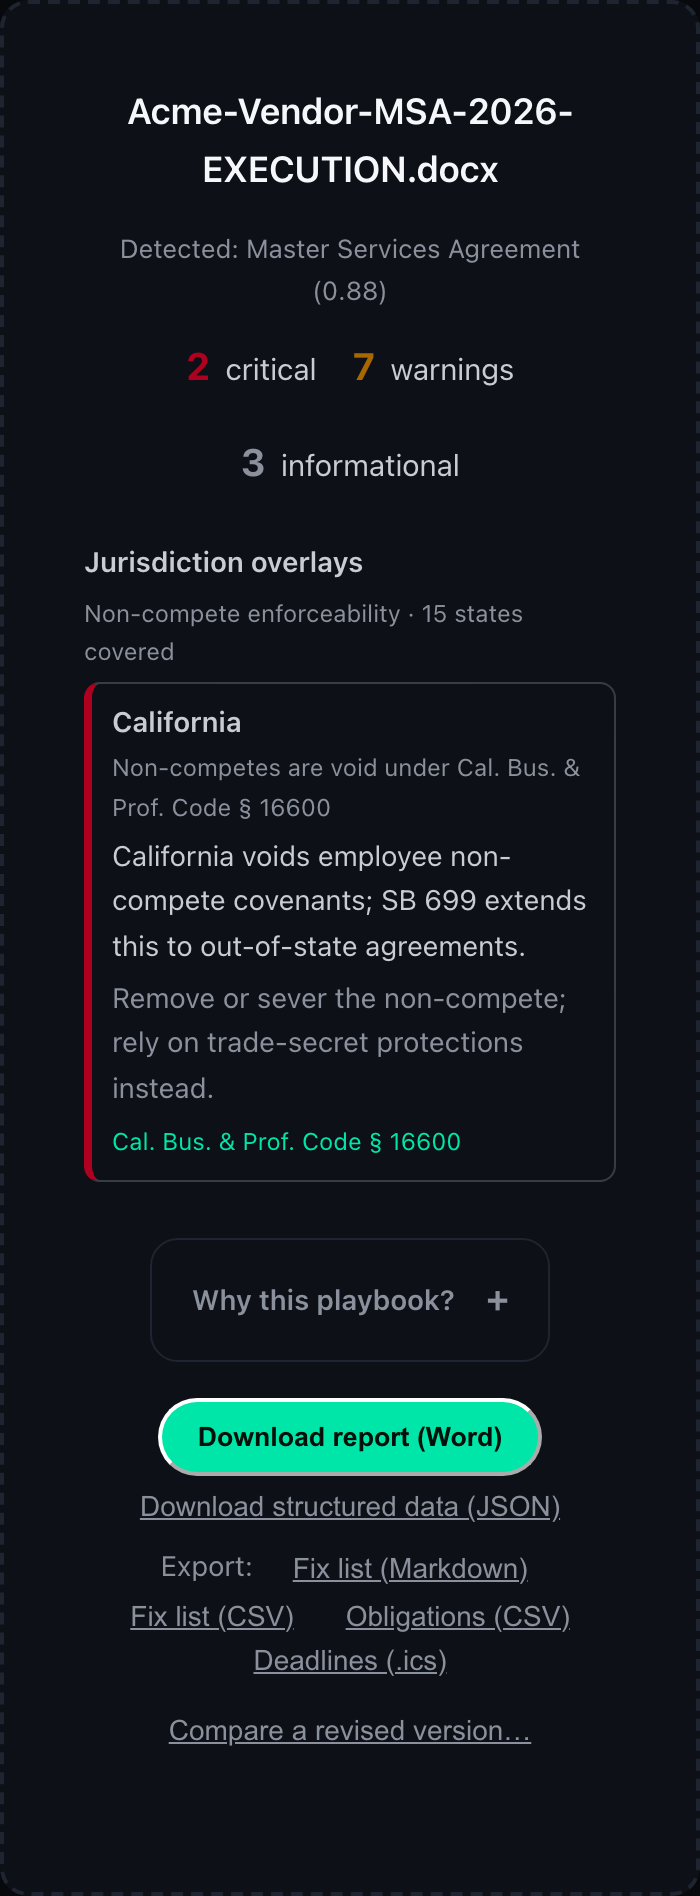
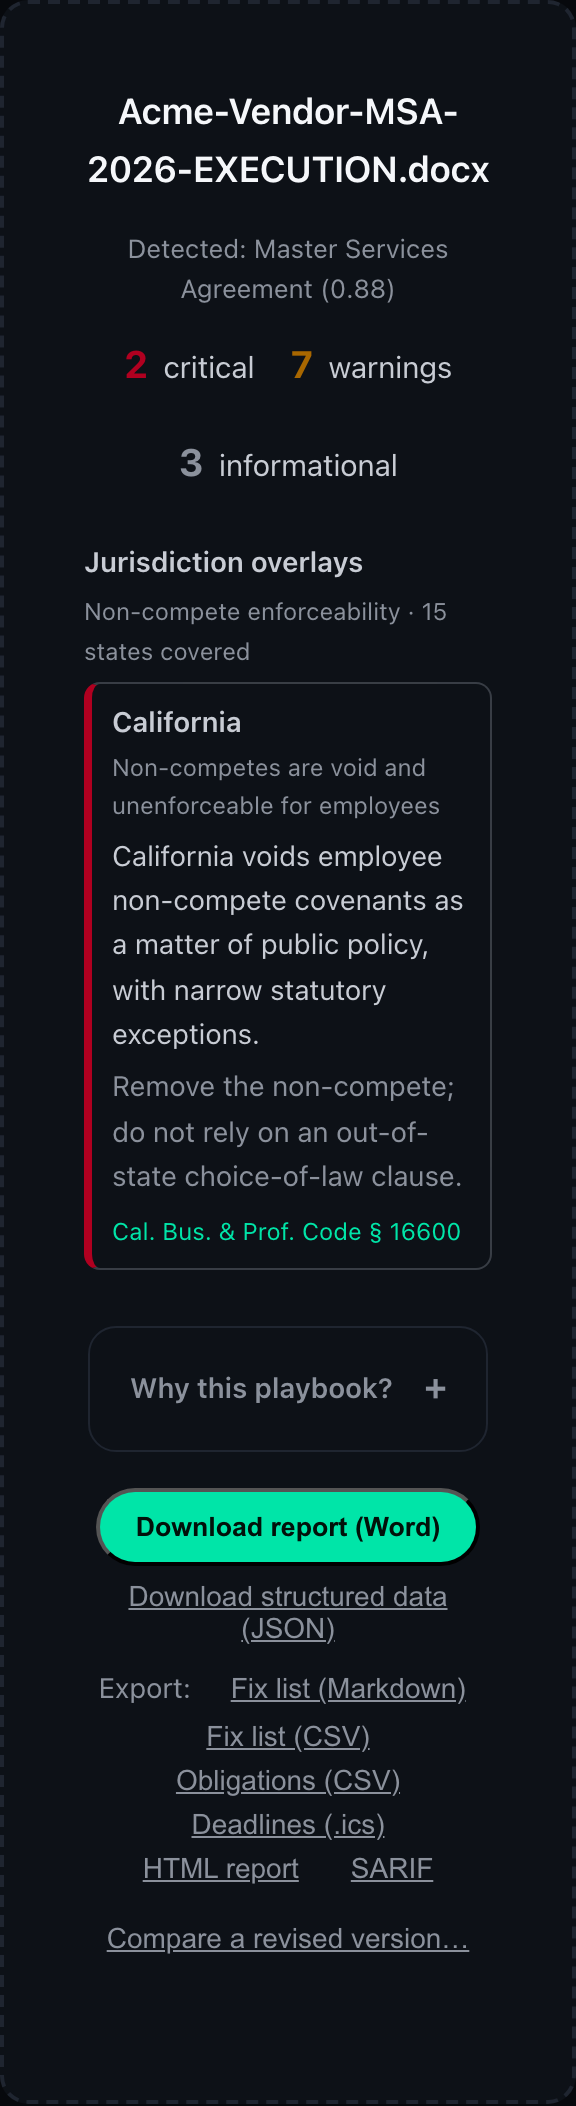
docs: refresh stale README product screenshot (4→6 exports) + add generator
docs/images/report-mobile.png predated the v8 UI wiring — it showed only 4
export buttons, but the complete-state now offers 6 (it was missing the HTML
report and SARIF buttons I wired in), and the link/overlay colours changed
under the --link / --critical token fixes. The README's most prominent product
image was advertising fewer formats than the badge ("7 export formats") and the
v8 reach section claim.

Regenerated it from the CURRENT renderState + real page CSS via a new isolated
generator (tools/screenshots/capture.spec.ts + pw.config.ts; npm run
screenshots) so it stays faithful as the UI evolves. The generator lives
OUTSIDE tests/e2e (testDir), so neither `npm run e2e` nor vitest discovers it
(verified: 0 matches in the default e2e list); it only runs on demand. Updated
the alt text to list all seven export formats. hero.png is unaffected (dark
landing view, no links / dark --muted unchanged) so it was left as-is.

Per-push gate green: typecheck + lint + coverage (L88.7/B74.3, above floors) +
build + docs-links; 2,696 vitest tests. New generator typechecks/lints clean.

diff --git a/tools/screenshots/capture.spec.ts b/tools/screenshots/capture.spec.ts
@@ -1,0 +1,65 @@
+/**
+ * Regenerates docs/images/report-mobile.png from the *current* complete-state
+ * UI (the real renderState + page CSS) so the README's product shot stays
+ * accurate as the UI evolves. Not part of the e2e suite (lives outside
+ * tests/e2e); run on demand:
+ *   npx playwright test tools/screenshots/capture.spec.ts --config=tools/screenshots/pw.config.ts
+ */
+import { test } from "@playwright/test";
+import { readFileSync } from "node:fs";
+import { join, dirname } from "node:path";
+import { fileURLToPath } from "node:url";
+import { Window } from "happy-dom";
+import { renderState, type DropzoneState } from "../../src/ui/states.js";
+
+const __dirname = dirname(fileURLToPath(import.meta.url));
+const ROOT = join(__dirname, "..", "..");
+const CSS = readFileSync(join(ROOT, "site", "index.html"), "utf8").match(/<style[^>]*>([\s\S]*?)<\/style>/)![1];
+const blob = (s: string): Blob => new Blob([s]);
+const c = { critical: 2, warning: 7, info: 3 };
+
+const state: DropzoneState = {
+  kind: "complete",
+  filename: "Acme-Vendor-MSA-2026-EXECUTION.docx",
+  playbook_name: "Master Services Agreement",
+  counts: c,
+  match_reasoning: "Selected Master Services Agreement (vendor side).",
+  docx_blob: blob("d"), json_blob: blob("j"), docx_filename: "r.docx", json_filename: "r.json",
+  exports: {
+    fixlist_md_blob: blob("m"), fixlist_csv_blob: blob("c"), obligations_csv_blob: blob("o"),
+    deadlines_ics_blob: blob("i"), sarif_blob: blob("s"), html_blob: blob("h"),
+    fixlist_md_filename: "f.md", fixlist_csv_filename: "f.csv", obligations_csv_filename: "o.csv",
+    deadlines_ics_filename: "d.ics", sarif_filename: "r.sarif.json", html_filename: "r.html",
+  },
+  v3_family: { family: "msa", label: "Master Services Agreement", confidence: 0.88 },
+  jurisdiction_overlays: {
+    family: "employment-noncompete", states_in_catalog: 15,
+    matched: [{
+      state_name: "California", posture: "prohibited", topic: "Non-compete enforceability",
+      headline: "Non-competes are void and unenforceable for employees",
+      summary: "California voids employee non-compete covenants as a matter of public policy, with narrow statutory exceptions.",
+      recommendation: "Remove the non-compete; do not rely on an out-of-state choice-of-law clause.",
+      citation: { source: "Cal. Bus. & Prof. Code § 16600", source_url: "https://leginfo.legislature.ca.gov/faces/codes_displaySection.xhtml?lawCode=BPC&sectionNum=16600" },
+    }],
+    uncovered_states: [],
+  },
+  on_compare: () => {},
+};
+
+test("capture report-mobile.png", async ({ page }) => {
+  const g = globalThis as { document?: unknown; window?: unknown };
+  const win = new Window();
+  g.document = win.document; g.window = win;
+  const dz = win.document.createElement("div");
+  dz.className = "dropzone"; dz.id = "dropzone"; dz.setAttribute("data-state", "complete");
+  renderState(dz as unknown as HTMLElement, state);
+  const html = `<!doctype html><html lang="en" data-theme="dark"><head><meta charset="utf-8">
+    <meta name="viewport" content="width=device-width, initial-scale=1"><title>Vaulytica</title>
+    <style>${CSS}</style><style>body{padding:16px;display:flex;justify-content:center;}#main{margin:0;}</style></head>
+    <body><main id="main" class="wrap">${dz.outerHTML}</main></body></html>`;
+  await page.setViewportSize({ width: 360, height: 980 });
+  await page.setContent(html);
+  await page.evaluate(() => new Promise<void>((r) => requestAnimationFrame(() => r())));
+  const card = page.locator("#dropzone");
+  await card.screenshot({ path: join(ROOT, "docs", "images", "report-mobile.png") });
+});

diff --git a/tools/screenshots/pw.config.ts b/tools/screenshots/pw.config.ts
@@ -1,0 +1,6 @@
+import { defineConfig, devices } from "@playwright/test";
+export default defineConfig({
+  testDir: ".",
+  use: { ...devices["Desktop Chrome"], deviceScaleFactor: 2 },
+  projects: [{ name: "chromium" }],
+});

diff --git a/CHANGELOG.md b/CHANGELOG.md
@@ -4,6 +4,17 @@ All notable changes to this project will be documented in this file. Format adap
 
 ## [Unreleased]
 
+### Documentation
+- **Refreshed the README product screenshot (it was stale by two export
+  formats).** `docs/images/report-mobile.png` predated the v8 UI wiring, so it
+  showed only 4 export buttons; the app now offers 6 (it was missing **HTML
+  report** and **SARIF**), and the link/overlay colours had since changed.
+  Regenerated it from the *current* `renderState` + page CSS via a new, isolated
+  generator (`tools/screenshots/capture.spec.ts`, `npm run screenshots`) so the
+  product shot stays faithful as the UI evolves — and updated the alt text to
+  list all seven export formats. The generator lives outside `tests/e2e`, so it
+  is never run by the e2e suite or vitest; it is invoked on demand.
+
 ### Accessibility
 - **Bring-your-own-playbook panel sub-states are now responsiveness/a11y-gated
   (fixed two real bugs).** The panel's JS-rendered error / loaded / warning

diff --git a/README.md b/README.md
@@ -86,7 +86,7 @@ Those 1,062 are all **single-document** rules. Dropping a folder or `.zip` addit
 
 ## What the result looks like
 
-<img src="docs/images/report-mobile.png" alt="Vaulytica report card on a phone: severity counts, a California non-compete jurisdiction overlay with citation, and Word/JSON/fix-list/calendar exports" width="320" align="right" />
+<img src="docs/images/report-mobile.png" alt="Vaulytica report card on a phone: severity counts, a California non-compete jurisdiction overlay with citation, and one-click exports — Word, JSON, fix-list (Markdown/CSV), obligations, deadlines (.ics), HTML report, and SARIF" width="320" align="right" />
 
 The drop zone transforms in place into a result card: severity counts (critical / warning / informational), the matched playbook with a "why," any jurisdiction overlays for the governing-law state, and one-click exports — the **Word report** you can cite, the structured **JSON** with its `result_hash`, **SARIF 2.1.0** for code-scanning/PR annotation, a self-contained **single-file HTML** report that prints clean to PDF, the **fix-list** (Markdown / CSV), the obligations ledger (CSV), and deadlines as an **`.ics` calendar**. As of v8 **every** one of those carries each finding's resolvable citation — the URL rides into the spreadsheet row, the SARIF result, and the calendar event, not just the Word doc.
 